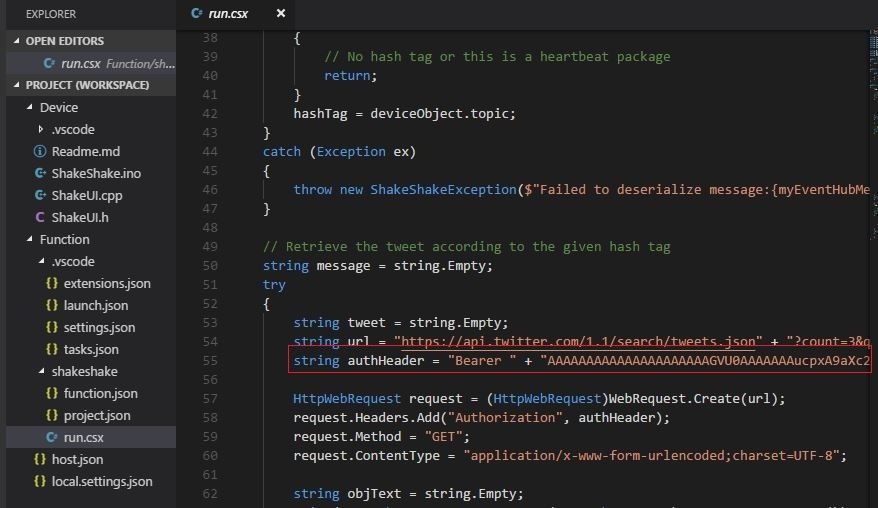
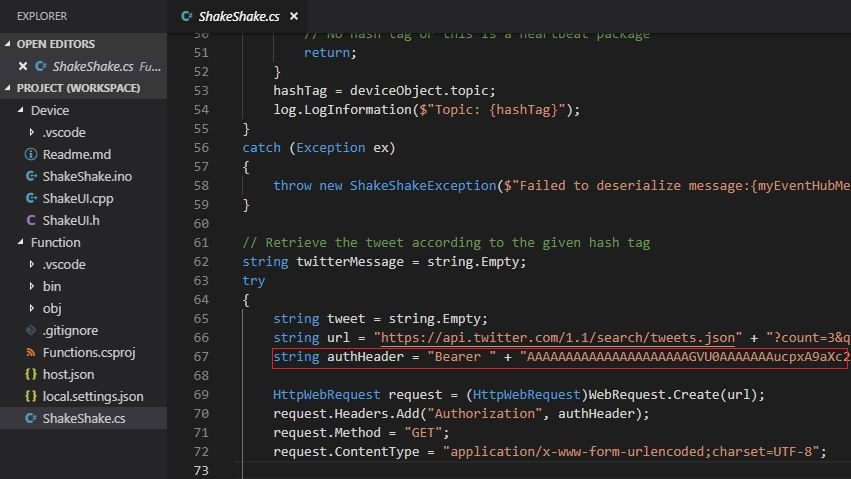
Update the doc of shakeshake

diff --git a/docs/iot-devkit/devkit-shakeshake.md b/docs/iot-devkit/devkit-shakeshake.md
@@ -75,12 +75,13 @@ static const char* iot_event = "{\"topic\":\"iot\"}";
 Replace the string `iot` within the curly braces with your preferred hashtag. DevKit later retrieves a random tweet that includes the hashtag you specify in this step.
 
 ## Modify code for Azure Functions
-Open **shakeshake\run.csx** and look for this line of code::
-```cpp
-    string deviceName = "AZ3166";
+Open **Function\shakeshake.cs** and find the following line of code:
+```csharp
+    // TODO： Input the device name.
+    string deviceId = "";
 ```
 
-Replace **AZ3166** with the device name you provisioned in previous step.
+Set deviceId with the device name you provisioned in previous step.
 
 ## Deploy Azure Functions
 
@@ -170,7 +171,7 @@ For testing purposes, this sample project uses a pre-configured Twitter bearer t
 
 3. Use [some utility](https://gearside.com/nebula/utilities/twitter-bearer-token-generator/) to generate a Twitter bearer token from these two keys.
 
-4. Update the following line in `shakeshake/run.csx` with your own token:
+4. Update the following line in `Function\shakeshake.cs` with your own token:
 ![update-token](media/iot-devkit-shakeshake/update-twitter-token.jpg)
 
 
